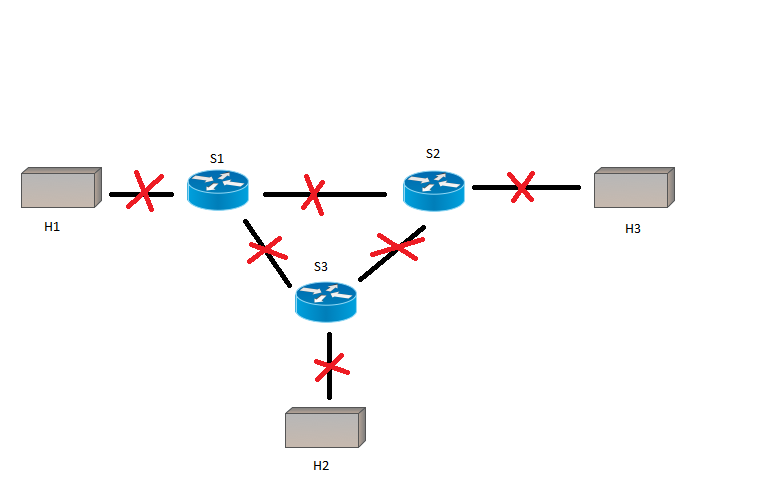
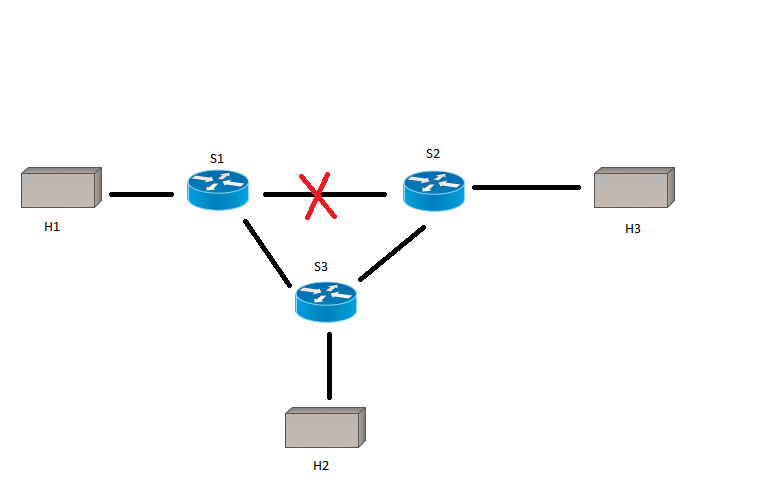
Tested and rearranged configs

diff --git a/topo.py b/topo.py
@@ -92,19 +92,22 @@ class App:
         json = request.json
         setting_id = json["setting_id"]
         print("Requested setting_id = " + str(setting_id))
-#for safety remember to always update all links
-#everything off
+
+        #for safety remember to always update all links
+        #everything off
         if setting_id == 1:
-            print('Setting links h1-s1 and s1-h2 to status=\'down\'.')
-            self.net.configLinkStatus(src='h1', dst='s1', status='down')
-            self.net.configLinkStatus(src='s2', dst='h2', status='down')
-            self.net.configLinkStatus(src='s1', dst='s3', status='down')
-            self.net.configLinkStatus(src='s3', dst='s2', status='down')
-            self.net.configLinkStatus(src='s3', dst='h3', status='down')
+            print('Setting network up.')
+            print('Setting h3 to be connected through s3 & disconnecting s1 from s2')
+            self.net.configLinkStatus(src='h1', dst='s1', status='up')
+            self.net.configLinkStatus(src='s2', dst='h2', status='up')
             self.net.configLinkStatus(src='s1', dst='s2', status='down')
+            self.net.configLinkStatus(src='s1', dst='s3', status='up')
+            self.net.configLinkStatus(src='s3', dst='h3', status='up')
+            self.net.configLinkStatus(src='s3', dst='s2', status='up')
             print(str(setting_id) + " set successfully.")
 
         if setting_id == 2:
+            print('Disconnecting h2.')
             print('Setting links h1-s1 and s1-h2 to status=\'up\'.')
             self.net.configLinkStatus(src='h1', dst='s1', status='up')
             self.net.configLinkStatus(src='s1', dst='s2', status='up')
@@ -115,22 +118,25 @@ class App:
             print(str(setting_id) + " set successfully.")
 
         if setting_id == 3:
-            print('Setting H3 to be connected through S3 & disconnecting S1 from S2')
-            self.net.configLinkStatus(src='h1', dst='s1', status='up')
-            self.net.configLinkStatus(src='s2', dst='h2', status='up')
-            self.net.configLinkStatus(src='s1', dst='s2', status='down')
-            self.net.configLinkStatus(src='s1', dst='s3', status='up')
-            self.net.configLinkStatus(src='s3', dst='h3', status='up')
-            self.net.configLinkStatus(src='s3', dst='s2', status='up')
-            print(str(setting_id) + " set successfully.")
-
-        if setting_id == 4:
+            print('Disconnecting h1.')
             self.net.configLinkStatus(src='h1', dst='s1', status='down')
             self.net.configLinkStatus(src='s2', dst='h2', status='up')
             self.net.configLinkStatus(src='s1', dst='s2', status='down')
             self.net.configLinkStatus(src='s1', dst='s3', status='down')
             self.net.configLinkStatus(src='s3', dst='h3', status='up')
             self.net.configLinkStatus(src='s3', dst='s2', status='up')
+            print(str(setting_id) + " set successfully.")
+
+        if setting_id == 4:
+            print('Setting network down.')
+            print('Setting links h1-s1 and s1-h2 to status=\'down\'.')
+            self.net.configLinkStatus(src='h1', dst='s1', status='down')
+            self.net.configLinkStatus(src='s2', dst='h2', status='down')
+            self.net.configLinkStatus(src='s1', dst='s3', status='down')
+            self.net.configLinkStatus(src='s3', dst='s2', status='down')
+            self.net.configLinkStatus(src='s3', dst='h3', status='down')
+            self.net.configLinkStatus(src='s1', dst='s2', status='down')
+            print(str(setting_id) + " set successfully.")
 
     def stop(self):
         self.net.stop()
